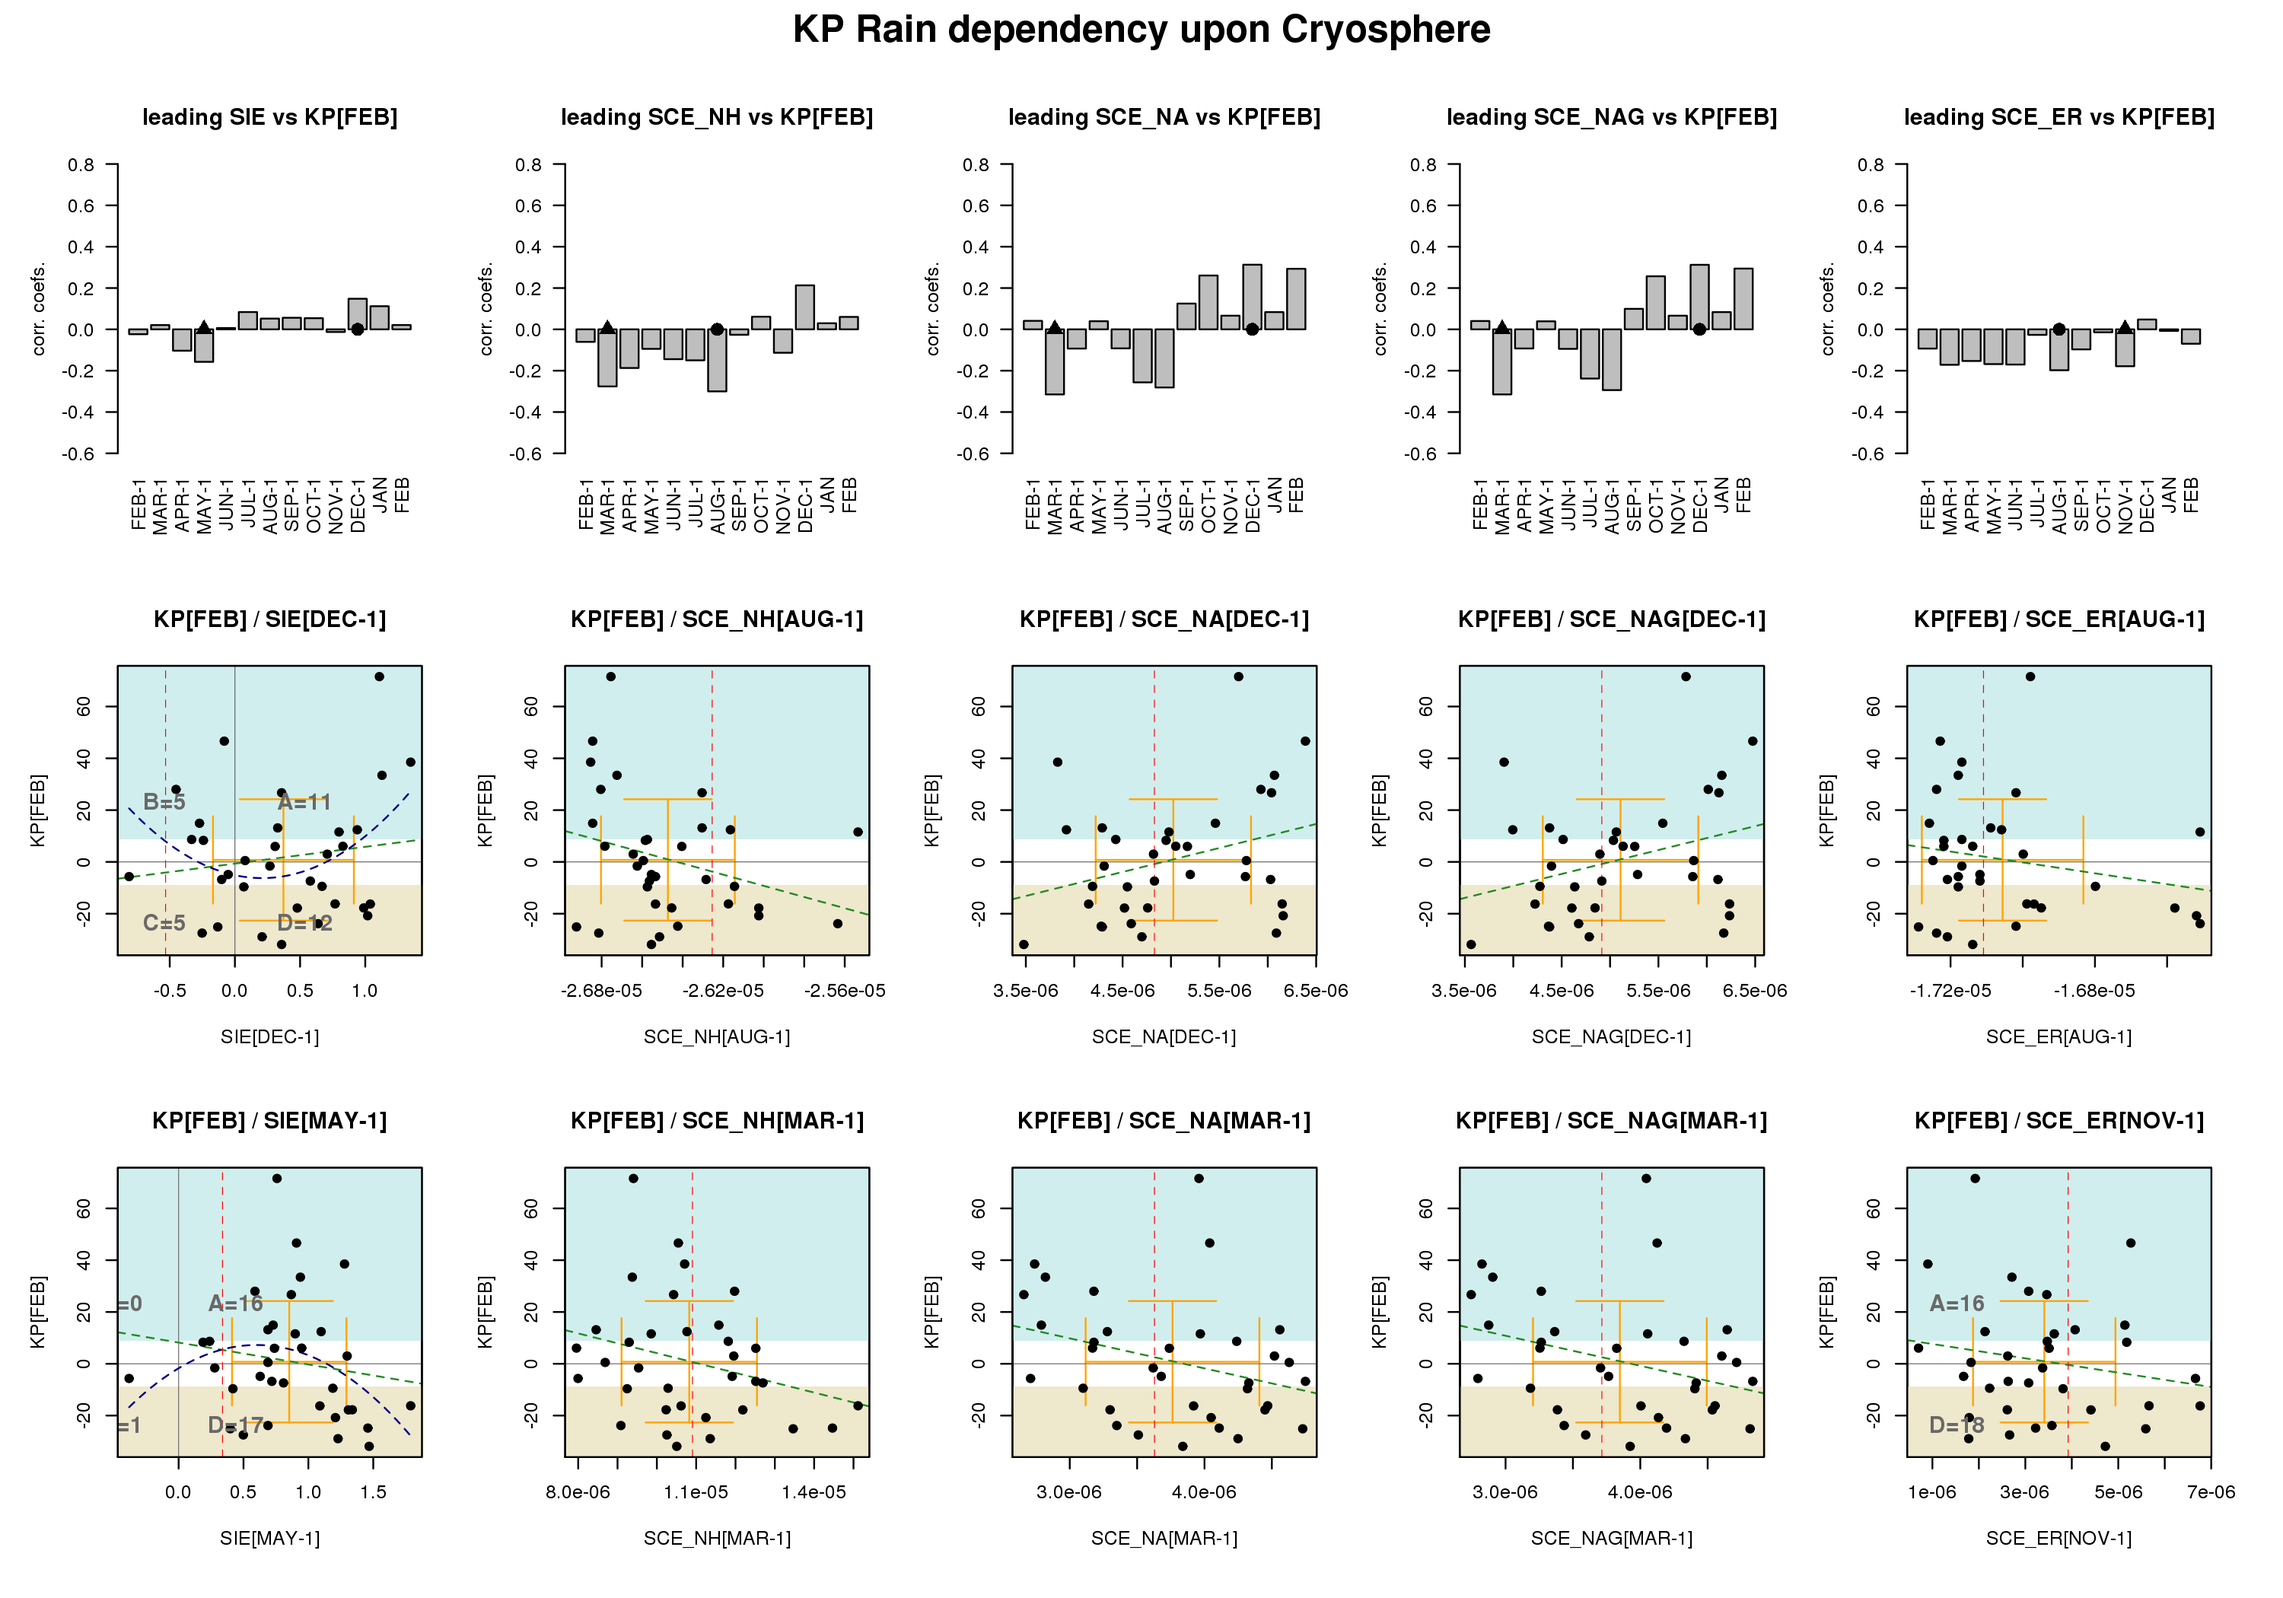
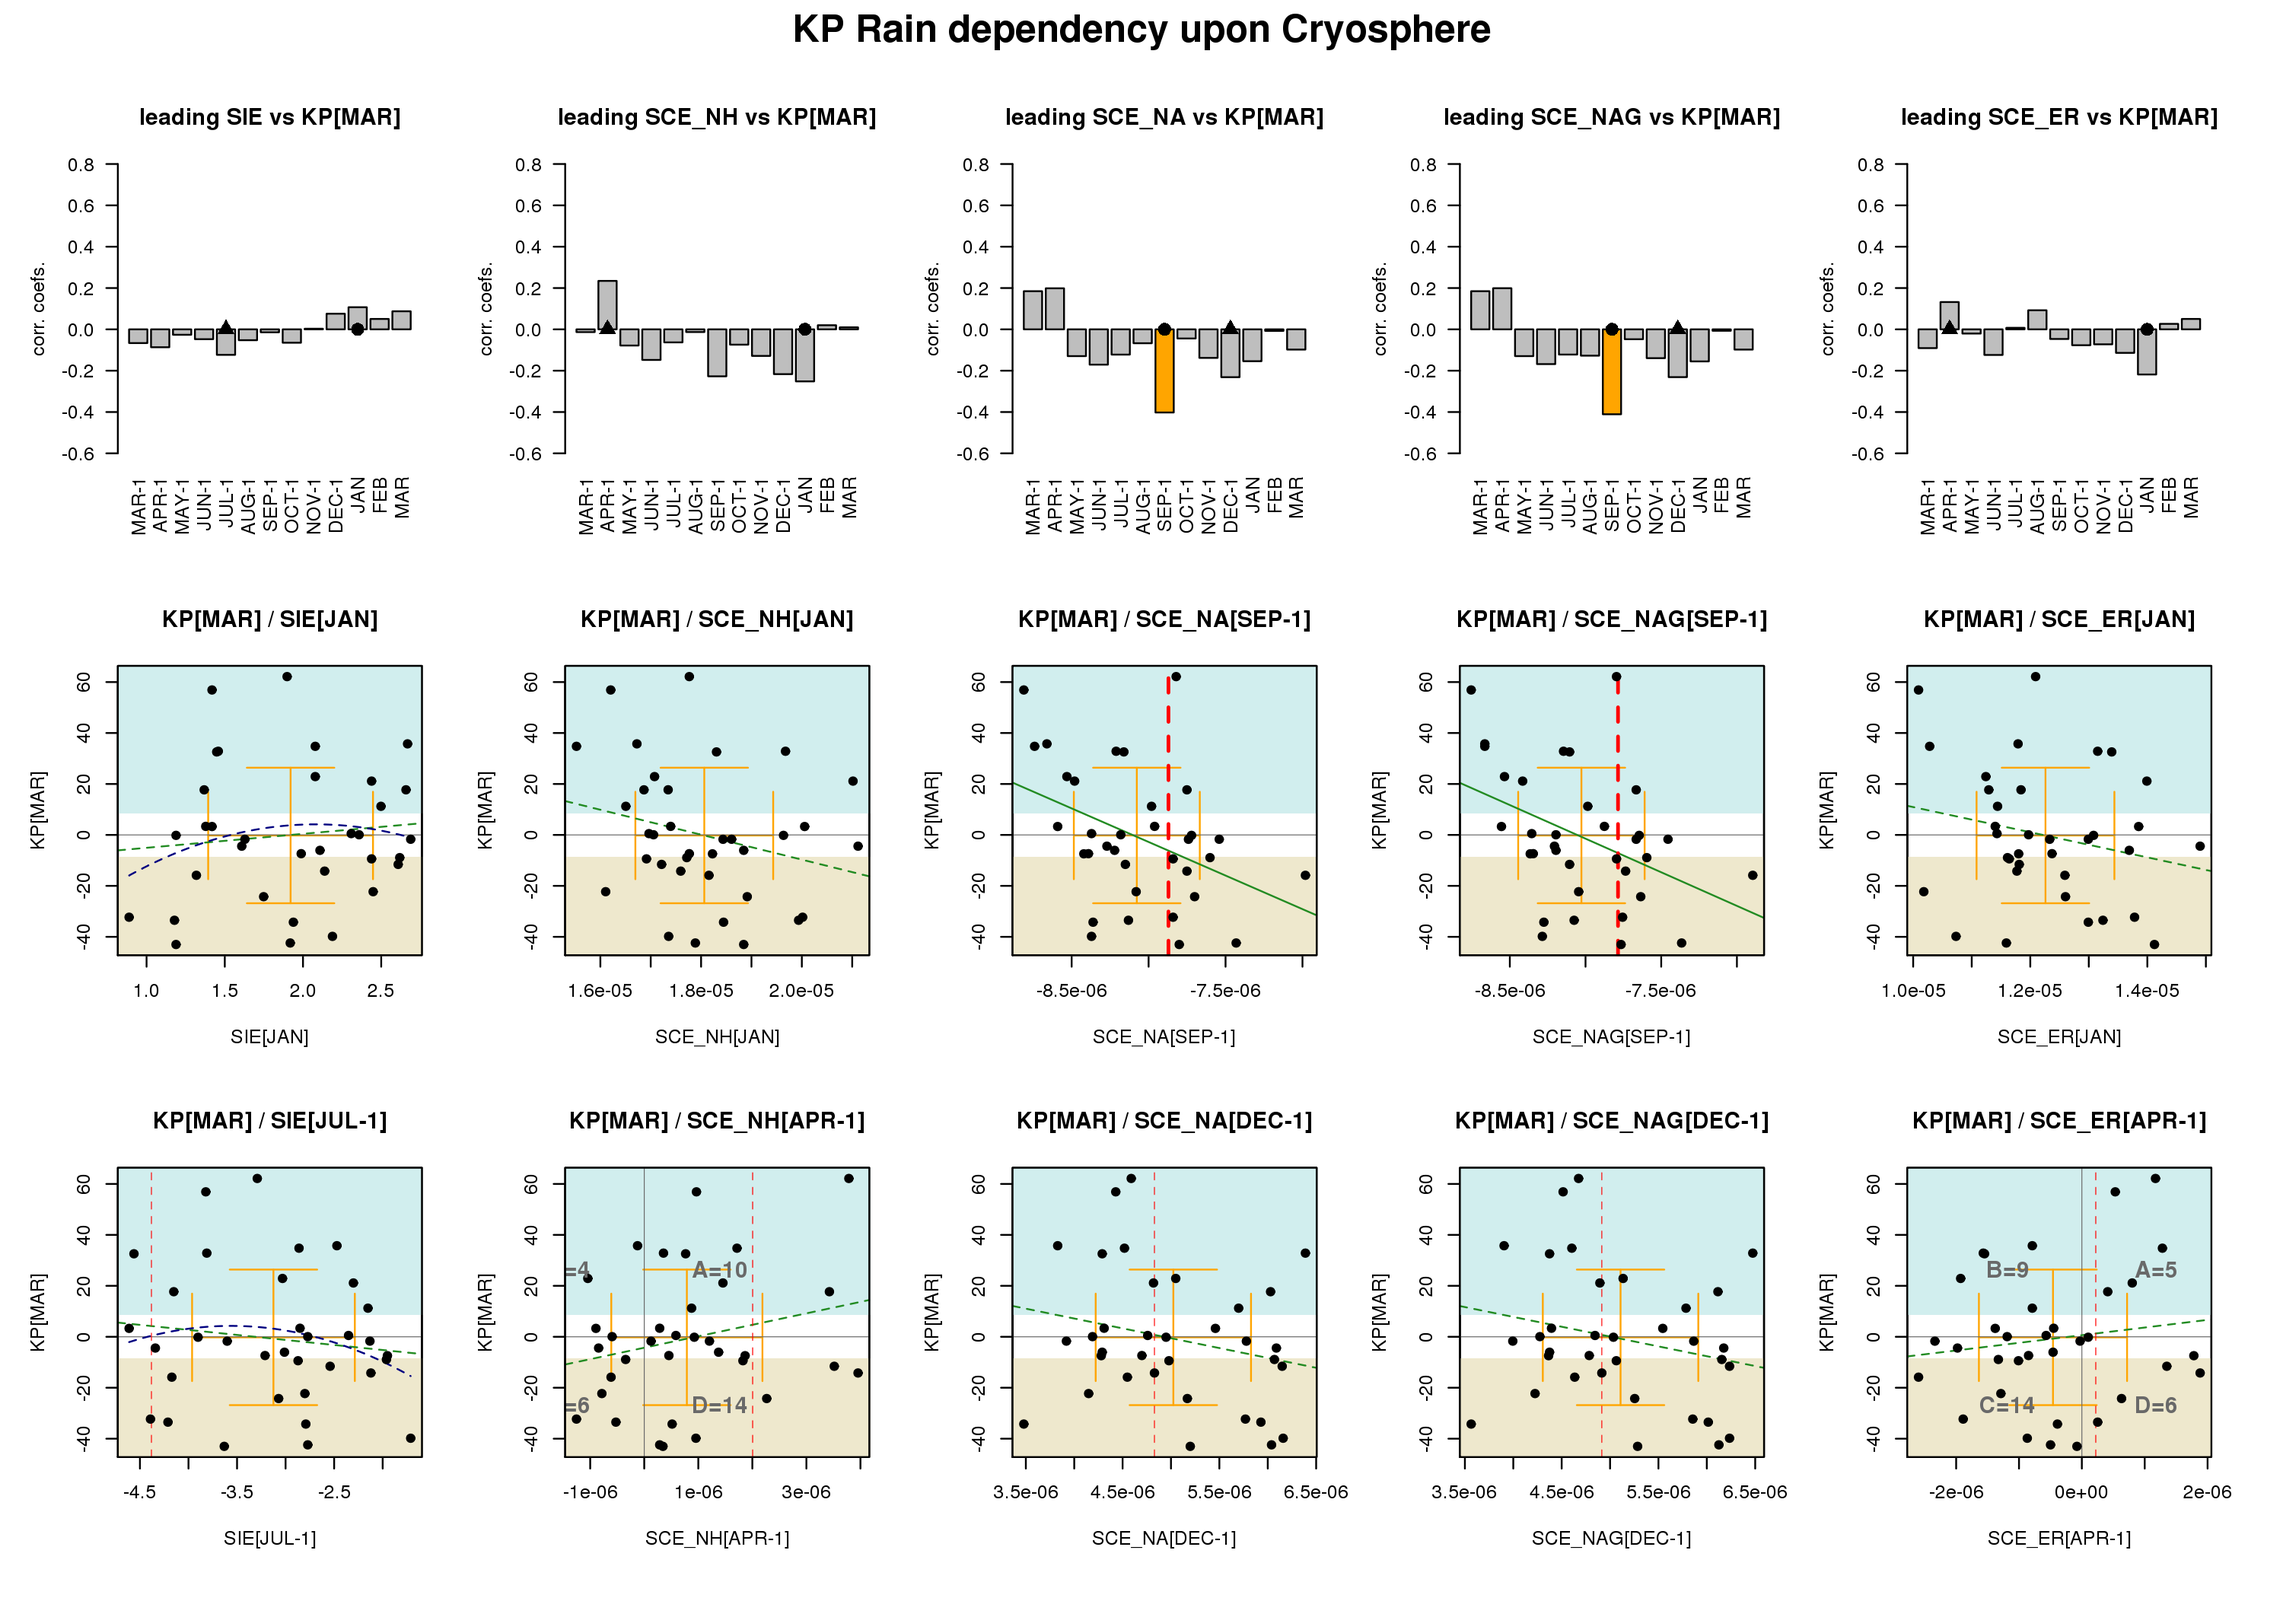
update

diff --git a/README.md b/README.md
@@ -1,4 +1,4 @@
-# 2018 FEB 
+# 2018 MAR 
 
 ## Temperature
 
